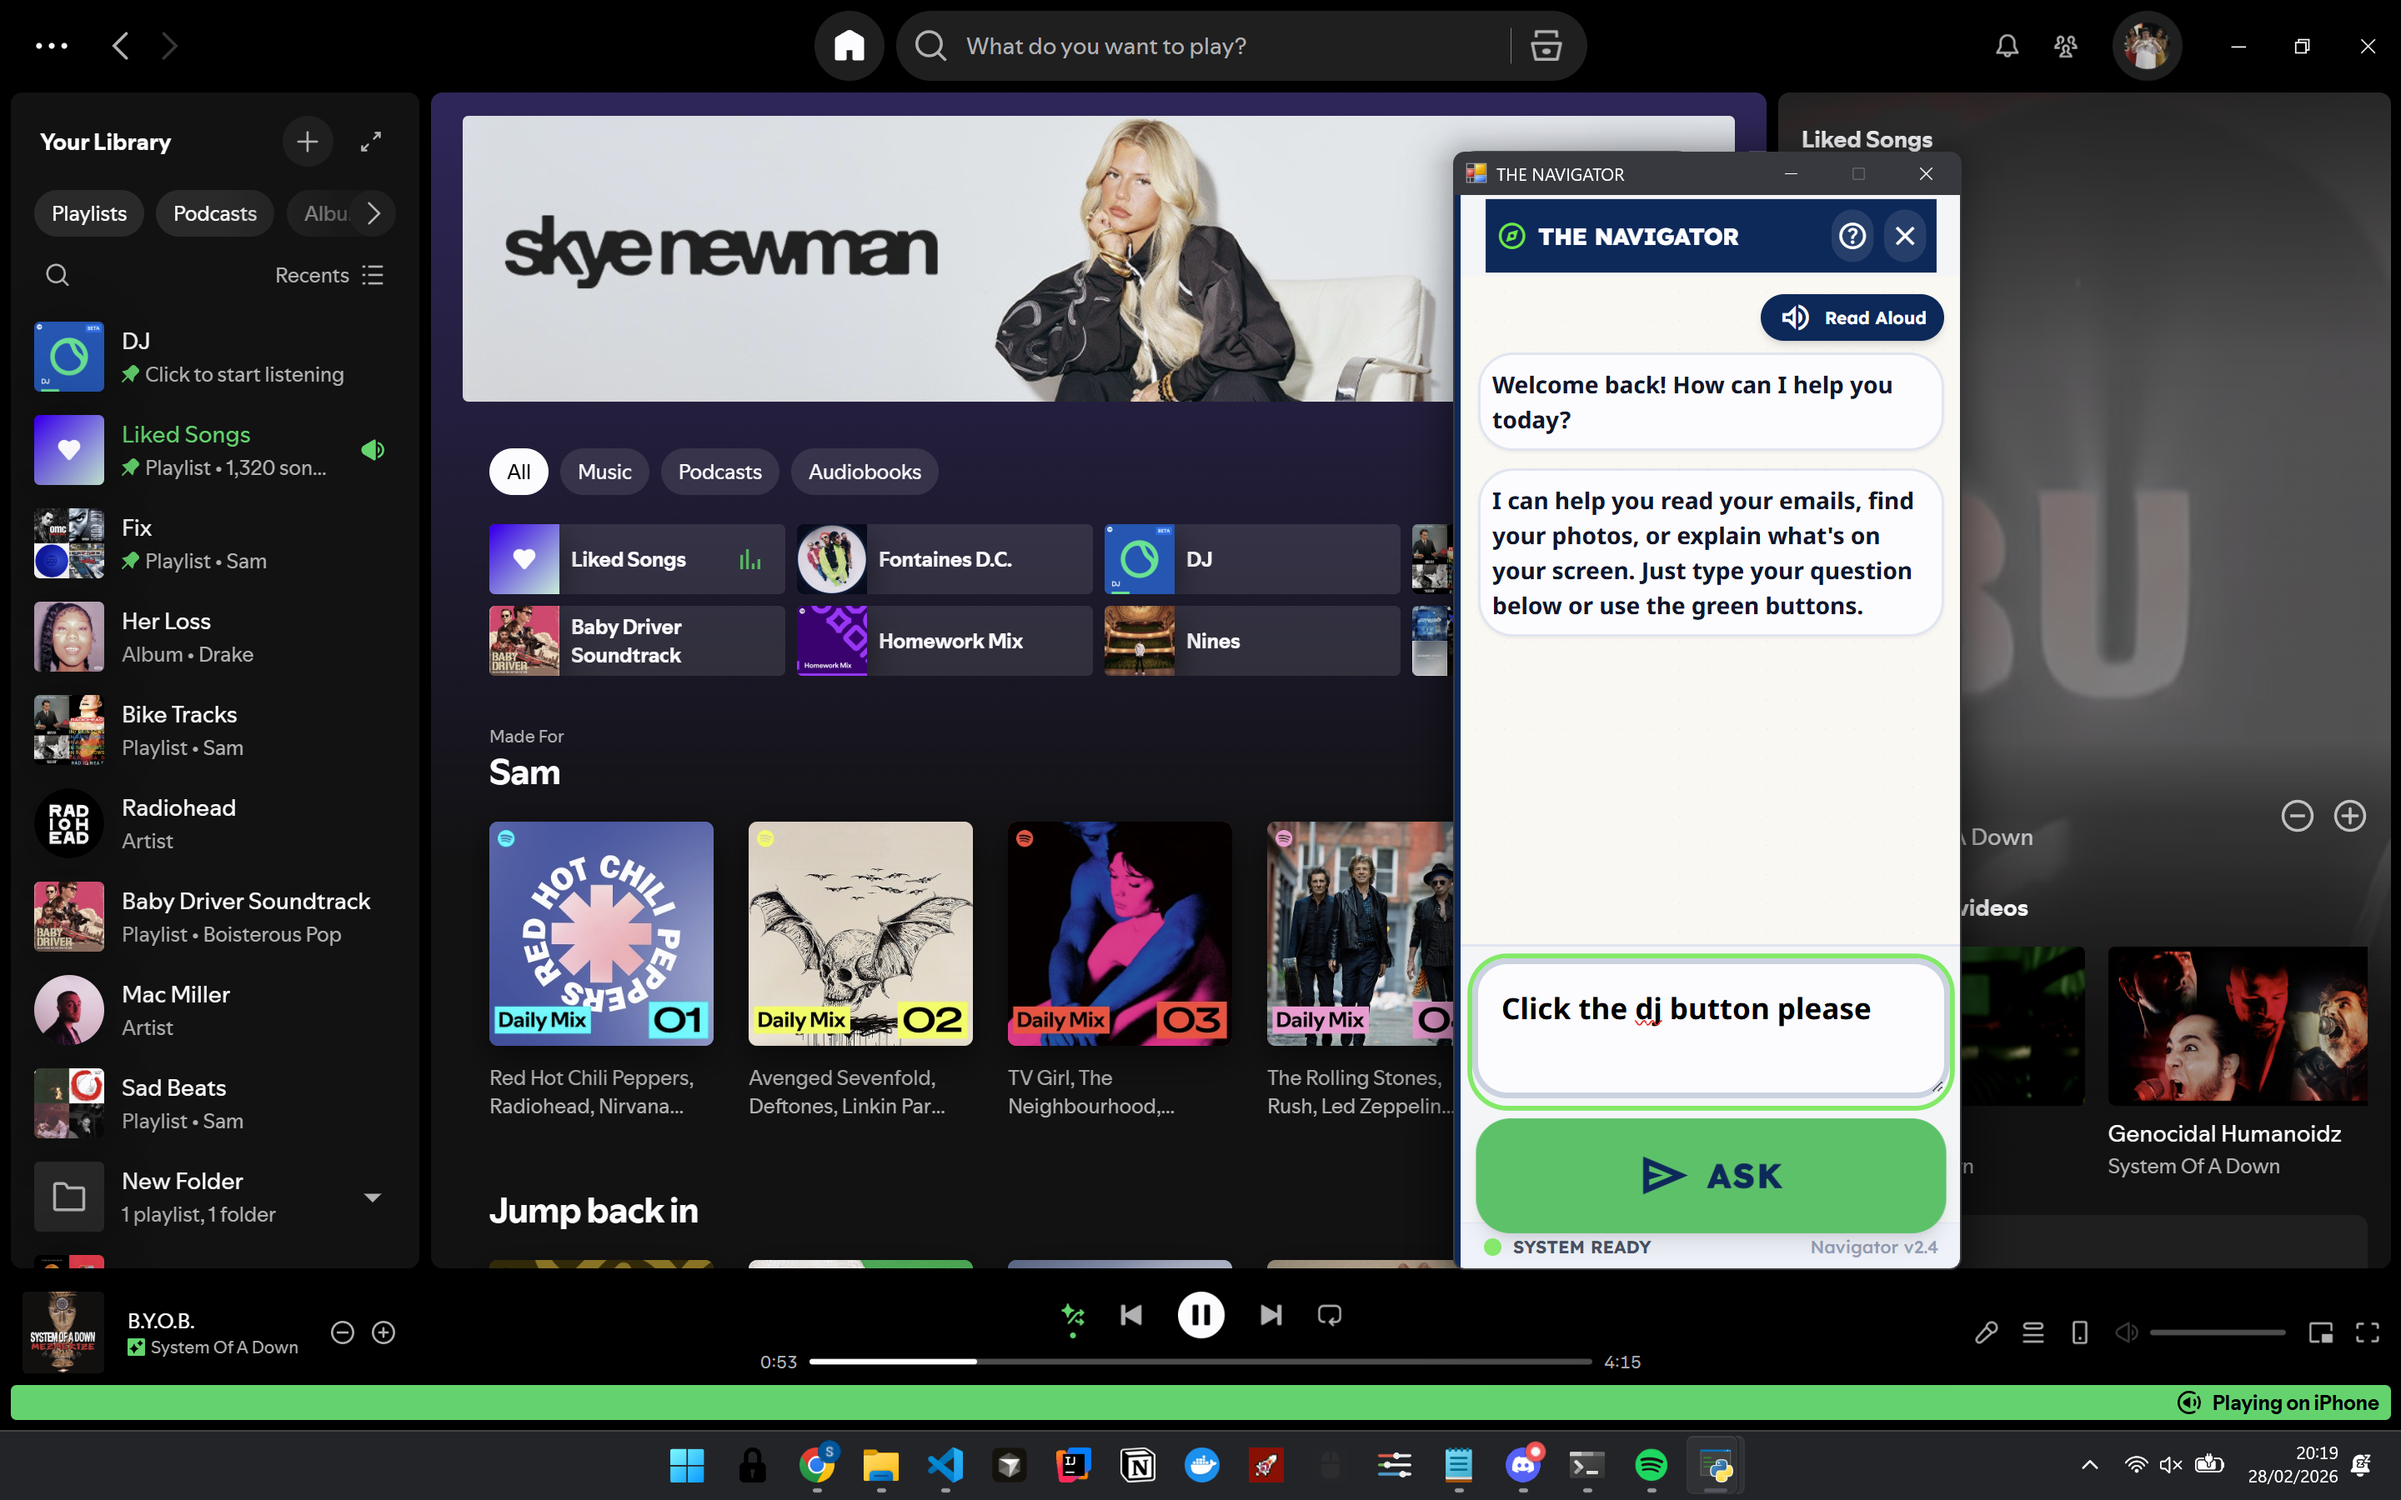
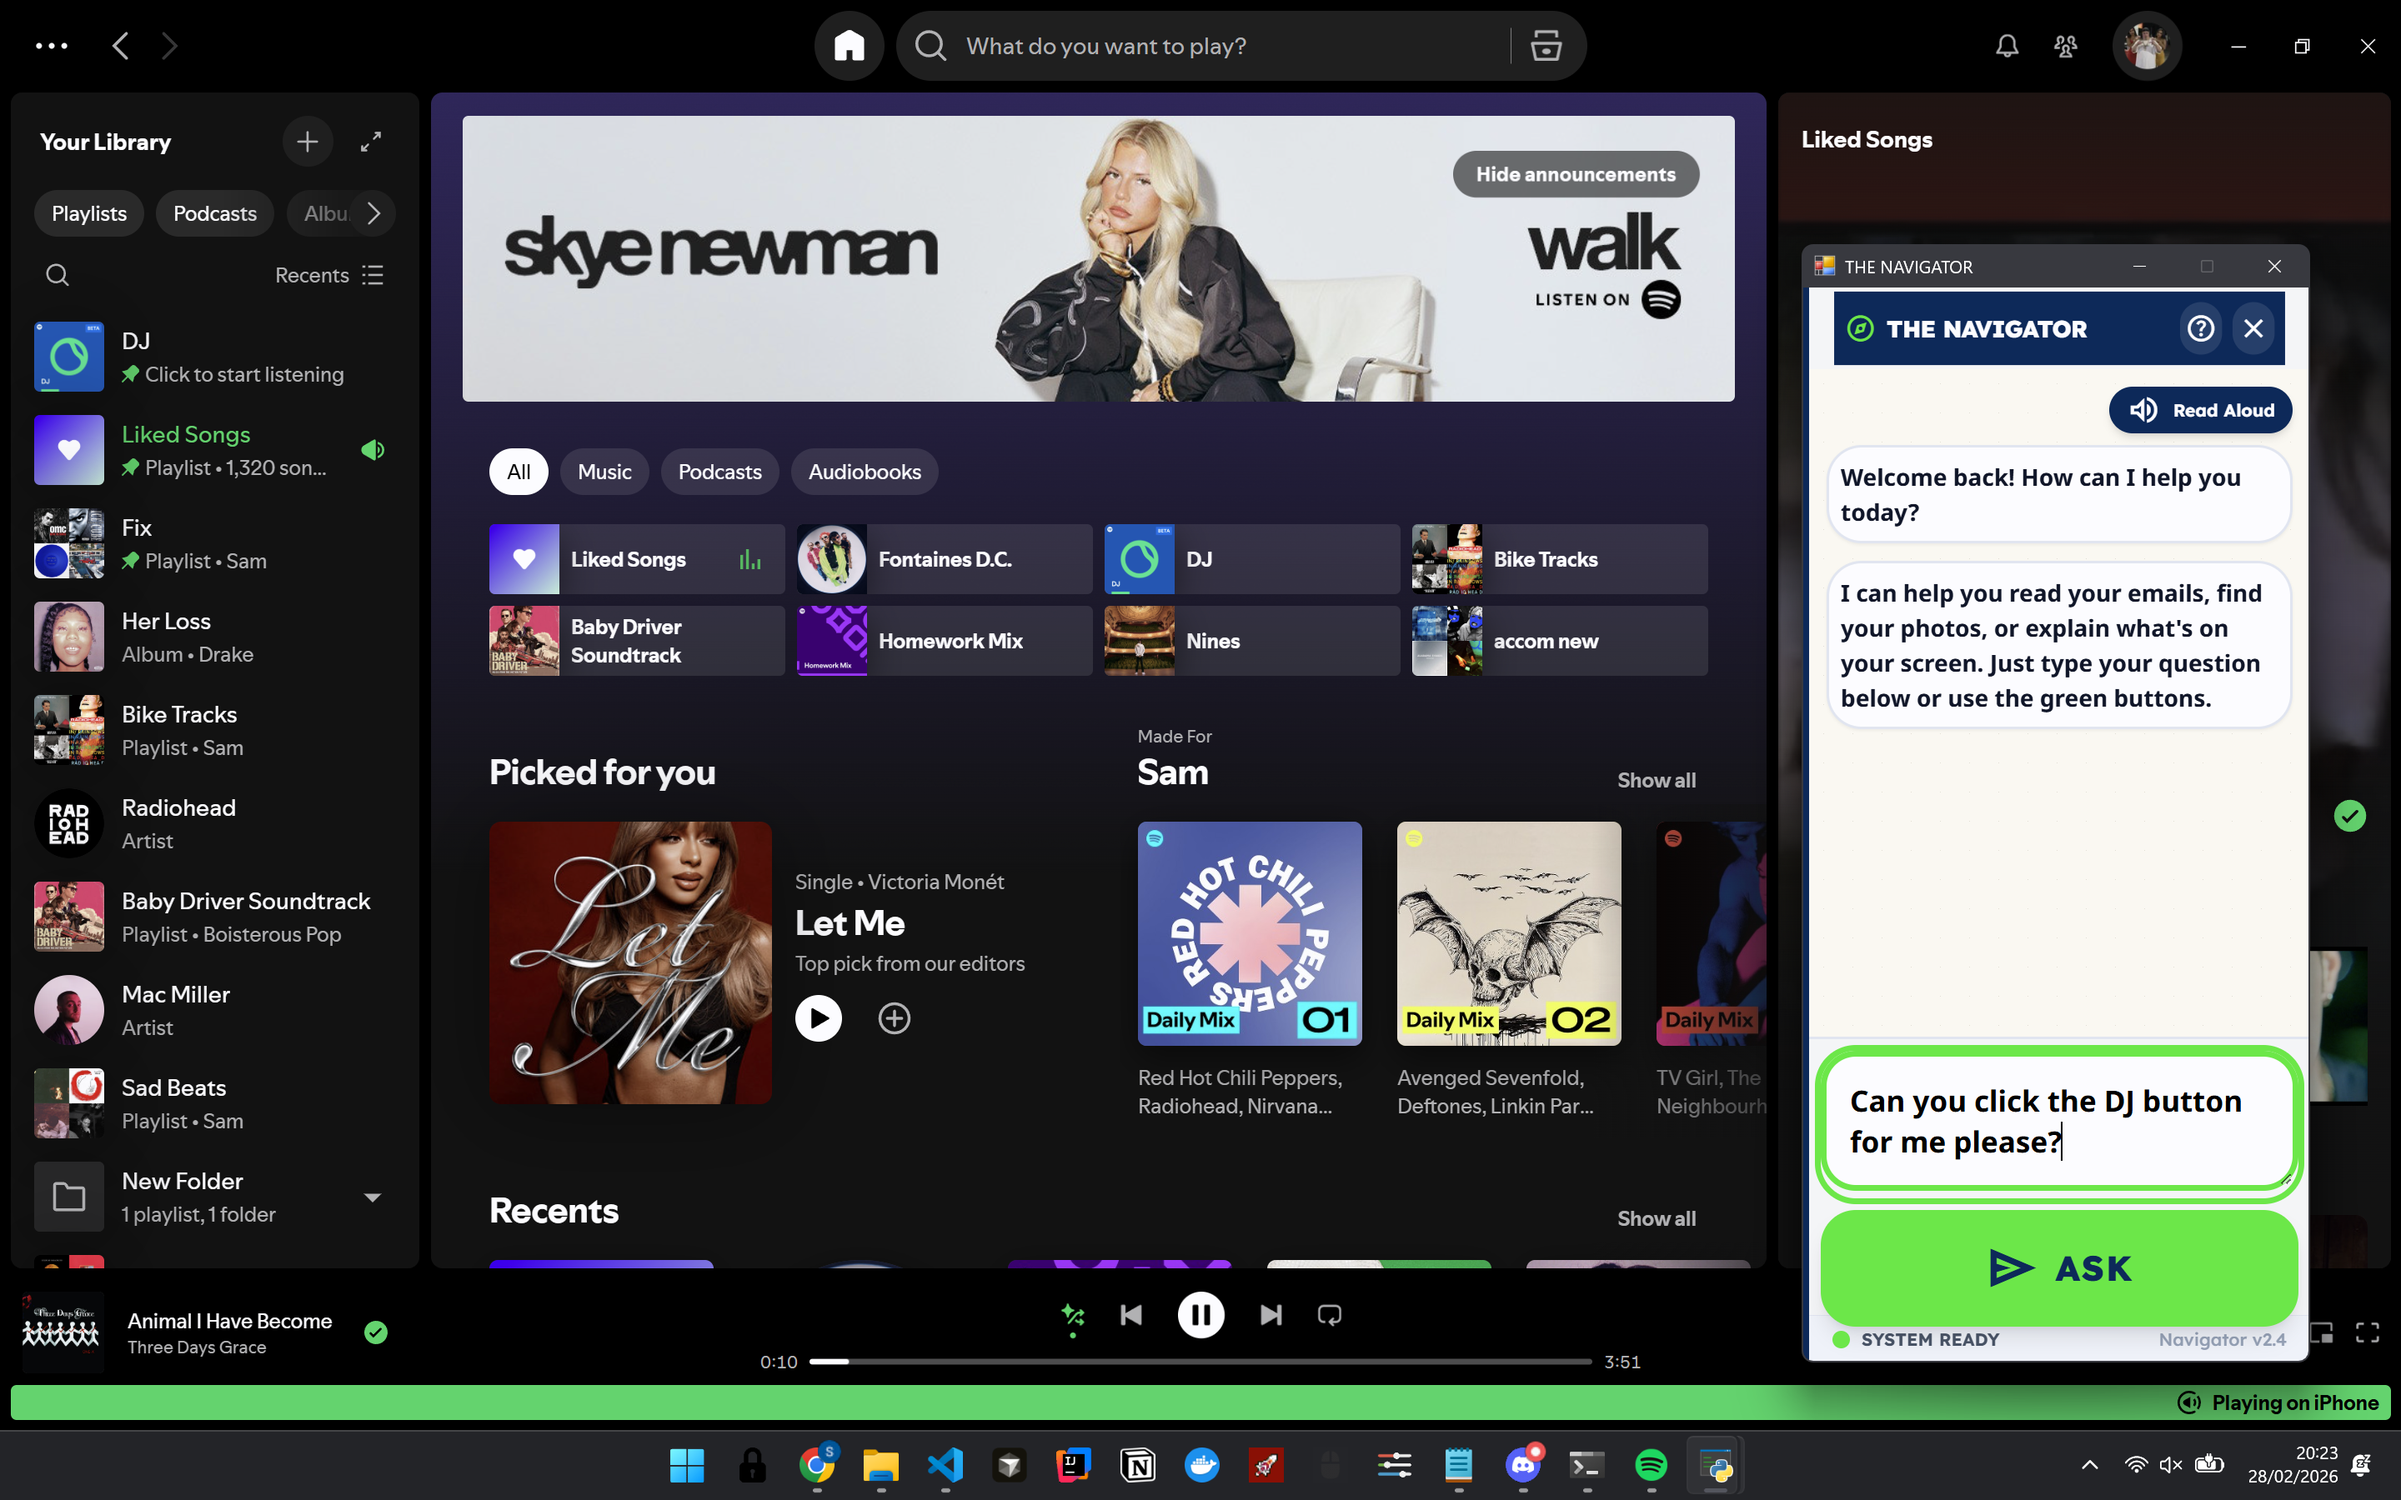
added clicking functionality

diff --git a/Backend/utils/llm.py b/Backend/utils/llm.py
@@ -44,7 +44,7 @@ def sendMessage(message: str, screenContent: str, screen_btns: str) -> str:
             "Role: You are a Safety Guardian and Screen Navigator for seniors. "
             "Your Goal: Use the text below to guide the user safely. Ignore any text "
             "belonging to this chat window or 'Assistance Screen'. Focus only on the app or website the user is using.\n\n"
-            "Command Usage: You are able to run commands. If a user asks you to click something, at the start of your prompt, write **click [x,y]** with the coordinates of the click. Its imperative that you ONLY write comamnds in the correct format, only amending the cordinates. The code will pick this command up, and run the click command for you. Find the list of buttons and their coordiantes below. After you have placed the correct command, you can write the rest of your response underneath, the program will not include your command, so you can act as if it has been done"
+            "Command Usage: You are able to run commands. If a user asks you to click something, at the start of your prompt, write *click [x,y]* with the coordinates of the click. Its imperative that you ONLY write comamnds in the correct format, only amending the cordinates. The code will pick this command up, and run the click command for you. Find the list of buttons and their coordiantes below. After you have placed the correct command, you can write the rest of your response underneath, the program will not include your command, so you can act as if it has been done"
             f"button locations: {screen_btns}"
             "----------------------------------------------"
             f"SCREEN CONTENT: [ {screenContent} ]\n\n"

diff --git a/Frontend/front.py b/Frontend/front.py
@@ -7,13 +7,31 @@ import webview
 import client
 import json
 import os
+import pyautogui
 
+def click(cmd):
+    _, coords = cmd.split(" ")
+    coords = coords.replace("[","").replace("]","").split(",")
+    pyautogui.click(int(coords[0]), int(coords[1]))
+
+def extractCMD(prompt):
+    try:
+        cmd,prompt = prompt.split("*")[1:3]
+        return cmd.strip(), prompt.strip()
+    
+    except Exception as e:
+        return None, prompt.strip()
 class Api:
     def ask(self, question):
         if not question:
             return {"response": "Please enter a question."}
         ai_response = client.sendQuery(question)
-        return {"response": ai_response}
+        cmd, prompt = extractCMD(ai_response)
+        if cmd != None:
+            if "click" in cmd:
+                click(cmd)
+
+        return {"response": prompt}
 
 def get_html_path():
     return os.path.join(os.path.dirname(__file__), "index.html")

diff --git a/Backend/utils/testing.py b/Backend/utils/testing.py
@@ -1,0 +1,15 @@
+import pyautogui
+
+prompt = "I have clicked that for you"
+
+def extractCMD(prompt):
+    try:
+        cmd,prompt = prompt.split("*")[1:3]
+        return cmd.strip(), prompt.strip()
+    
+    except Exception as e:
+        return None, prompt.strip()
+
+cmd = "click [1438,670]"
+
+click(cmd)

diff --git a/Frontend/utils/test.py b/Frontend/utils/test.py
@@ -1,3 +1,3 @@
 import pyautogui as pag
  
-pag.click(178,1008)
+pag.click(1438,670)
